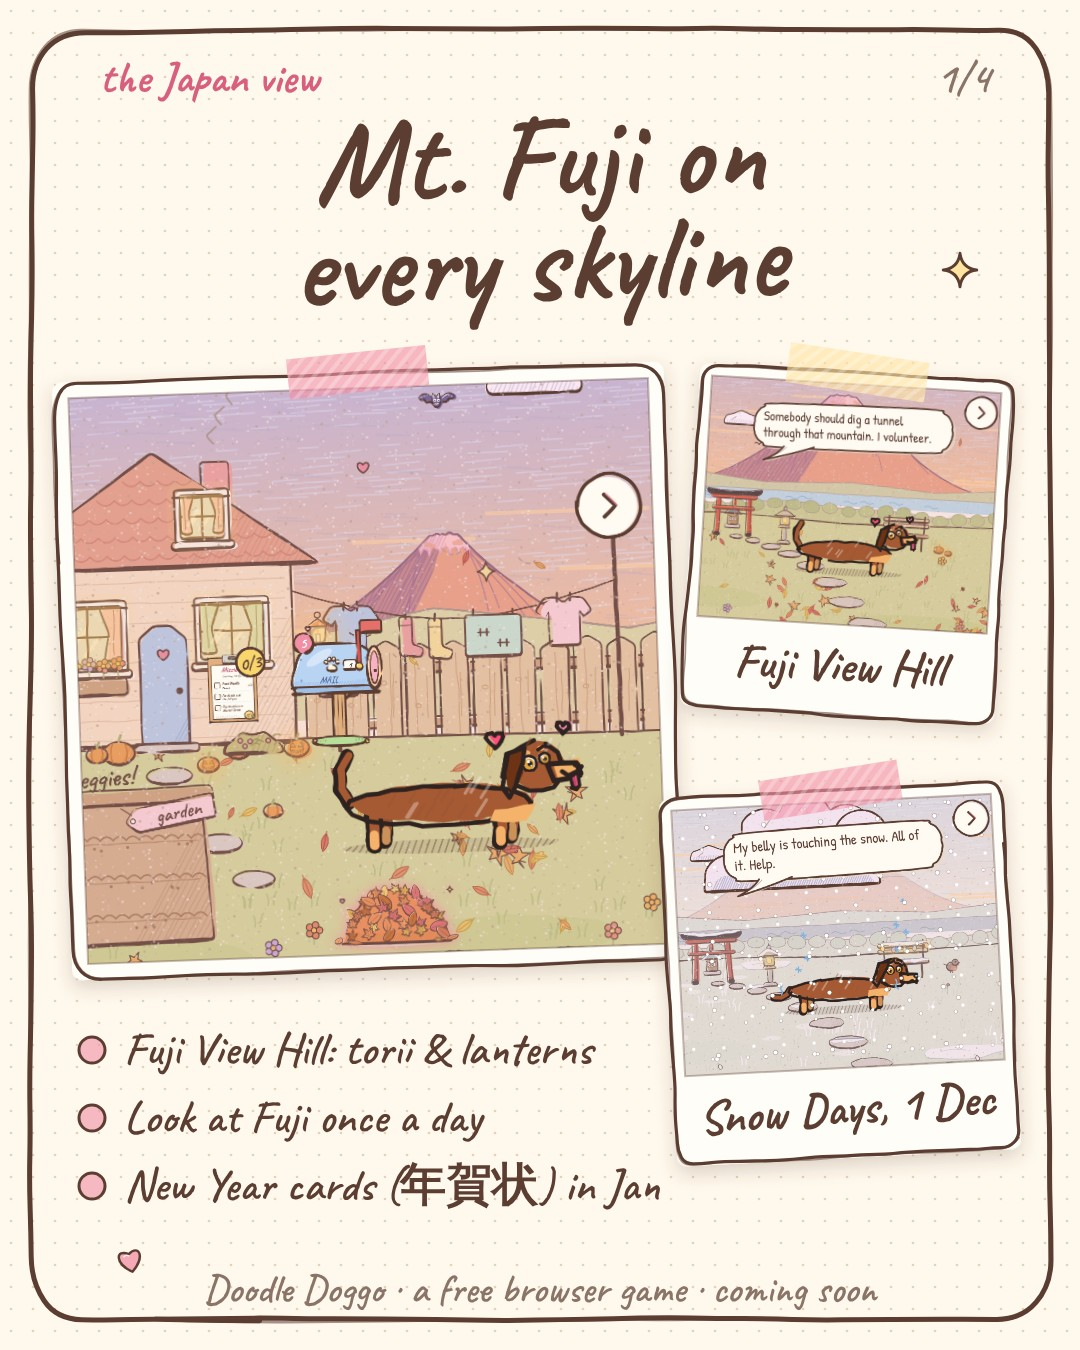
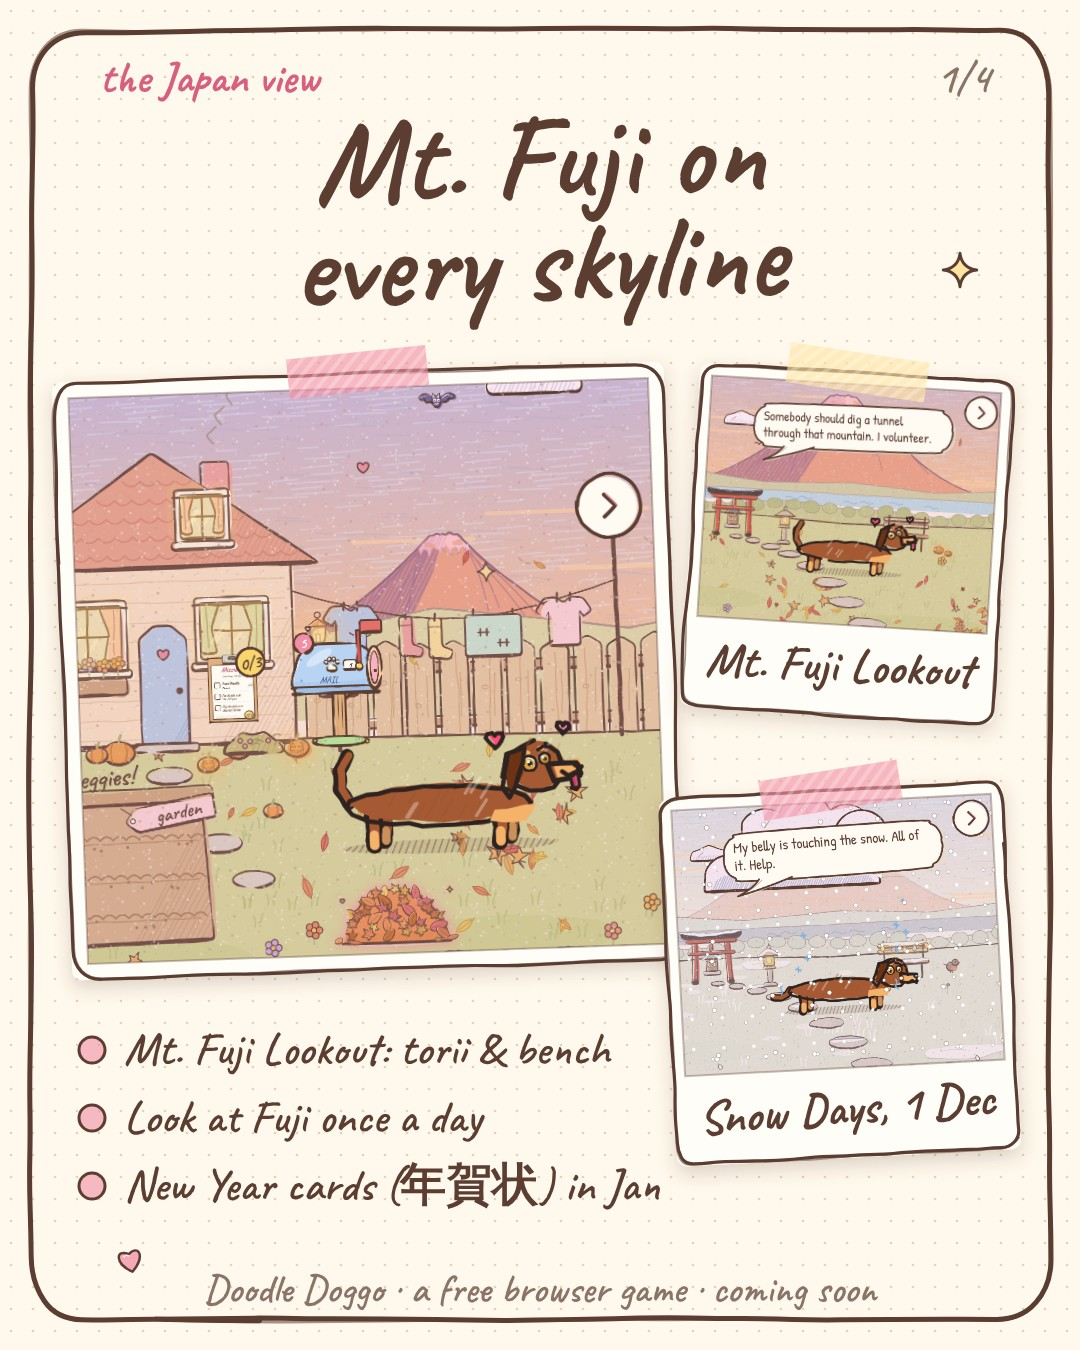
Marketing: rebuild the info posts with the Mt. Fuji Lookout name
Claude-Session: https://claude.ai/code/session_0173H2sTBWGuoegERTZ44QG1

Changed region(s): [[0.1222, 0.7467, 0.5806, 0.8089], [0.6417, 0.4667, 0.9167, 0.5289]]

diff --git a/docs/marketing/INSTAGRAM_FIRST_POSTS.md b/docs/marketing/INSTAGRAM_FIRST_POSTS.md
@@ -107,7 +107,7 @@ When winter comes, Snow Days start on 1 Dec. In January you can send New Year ca
 
 Which view is your favourite? 👇 Coming soon, free in your browser.
 
-🇯🇵 どの空にも富士山。富士山ビューヒルで、毎日ワンコと富士山を眺めよう🗻 12月1日から雪の日、1月には年賀状も届きます。
+🇯🇵 どの空にも富士山。富士山展望台で、毎日ワンコと富士山を眺めよう🗻 12月1日から雪の日、1月には年賀状も届きます。
 
 #cozygames #mtfuji #handdrawn #indiedev #doodledoggo #富士山 #年賀状
 ```
